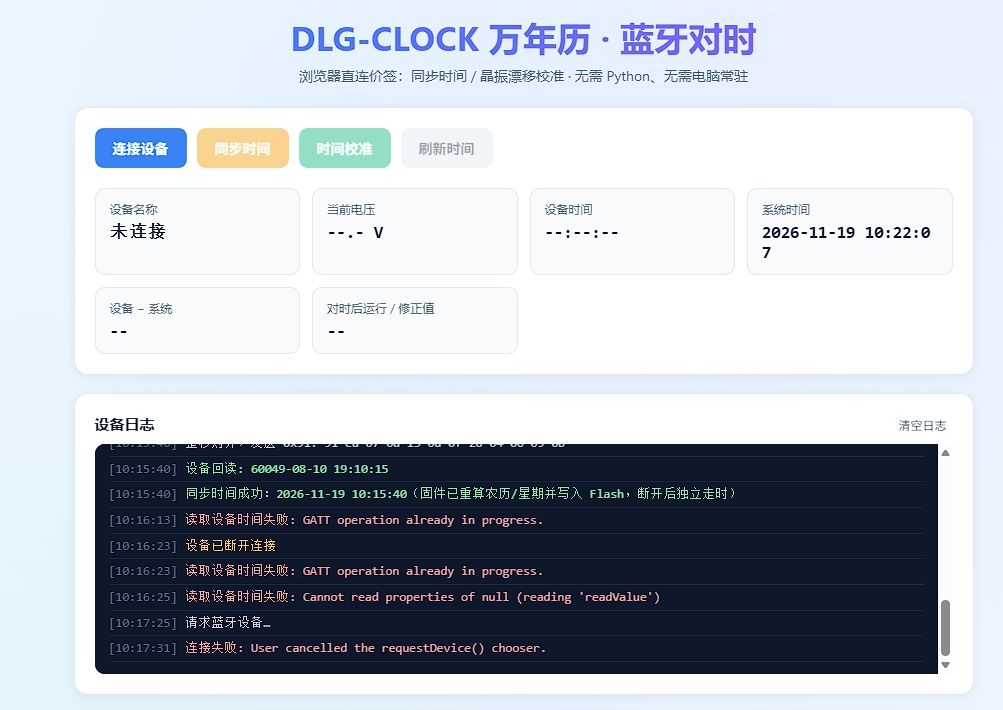
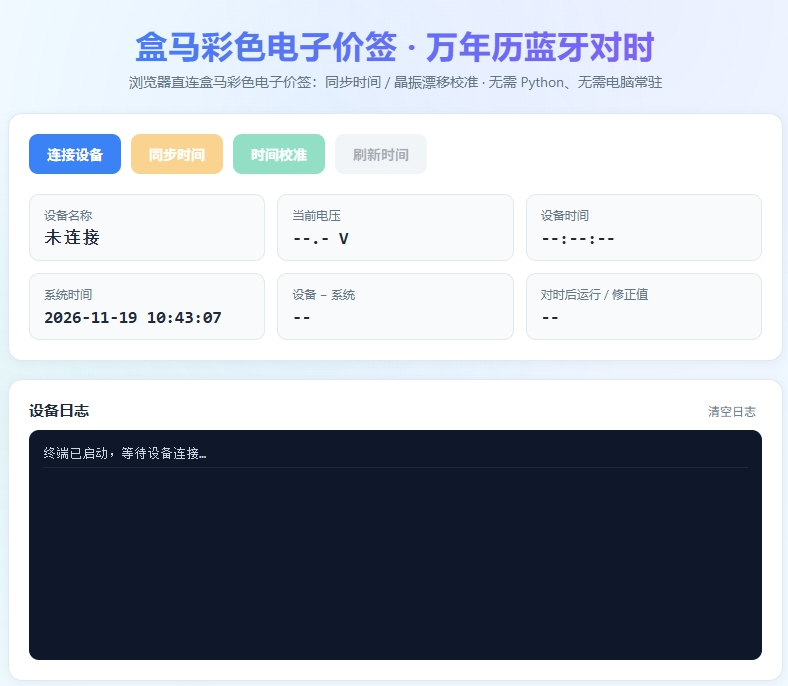
Update README wording and refresh time-sync page screenshot

diff --git a/README.md b/README.md
@@ -5,16 +5,15 @@
 - 上电即显示：公历年月日 / 星期、农历、干支年、生肖、24 节气、节日、当月月历网格、大字时钟
 - **不需要电脑常开、不需要 WiFi、不需要联网**：时间由固件本地 RTC 走时，断电后从 SPI Flash 快照恢复
 - 蓝牙**只用于对时**：浏览器 Web Bluetooth 页面 / 手机 nRF Connect / 一次性 Python 脚本，连上写一次 `0x91` 就能断开
-- 没有「主机未连接」提示，没有模拟监控数据；连接状态只表现为右上角的蓝牙小图标（绿=已连，灰=未连）
 
 <p align="center">
+ 设备实拍（脱机运行的万年历） 
   <img src="clock1.jpg" width="420" alt="盒马彩色电子价签实拍：离线万年历界面" />
+  
+  浏览器对时页（Chrome / Edge 直连，无需电脑常驻）
   <img src="clock-sync.jpg" width="420" alt="浏览器 Web Bluetooth 蓝牙对时页面" />
 </p>
 
-<p align="center"><sub>左：设备实拍（脱机运行的万年历） · 右：浏览器对时页（Chrome / Edge 直连，无需电脑常驻）</sub></p>
-
-> 屏幕中间的深色间隔是给物理漏液带（x 96..116）留的保护区，见 [硬件说明](docs/01-hardware.md)。
 
 本项目在 [luo-yihuan/DA14585-ble-monitor](https://gitee.com/luo-yihuan/DA14585-ble-monitor) 基础上改造，
 对时协议移植自 [tpunix/HMCLOCK](https://github.com/tpunix/HMCLOCK) 的 HMWEBCTRL。
